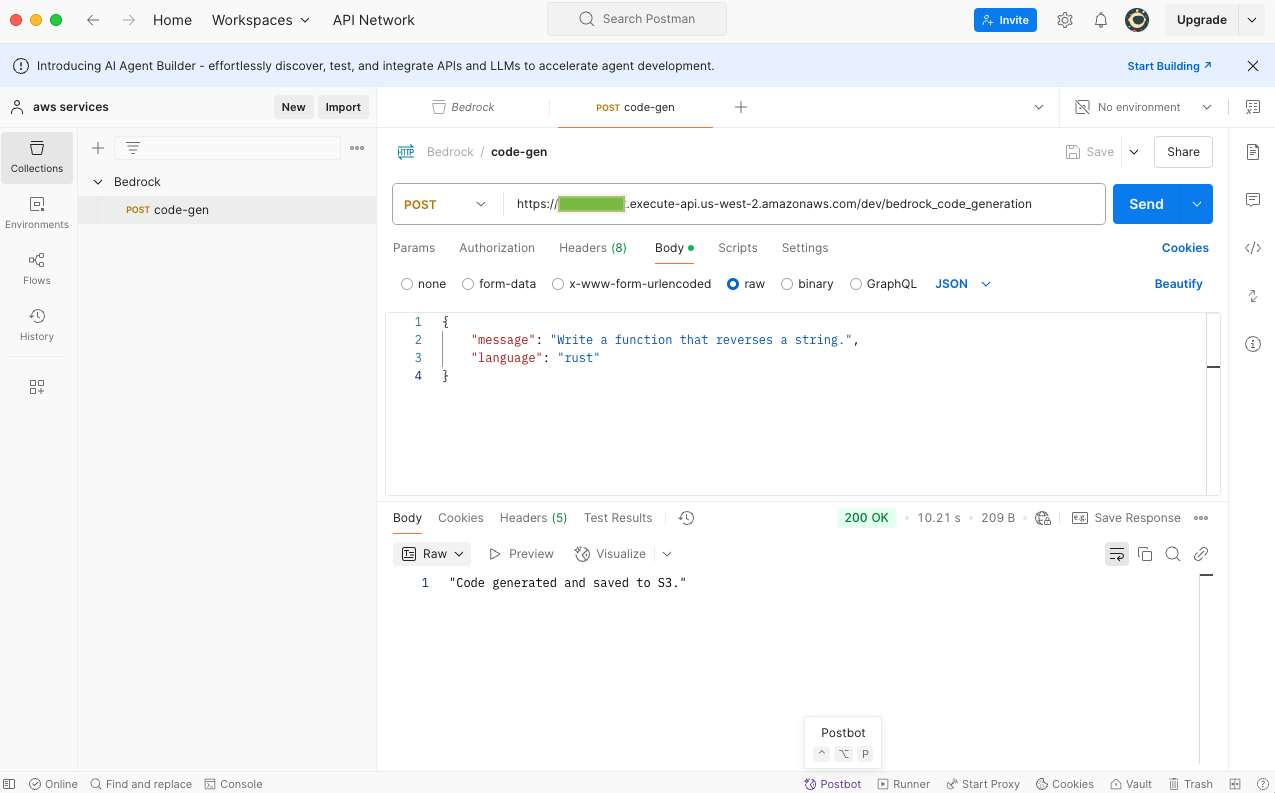
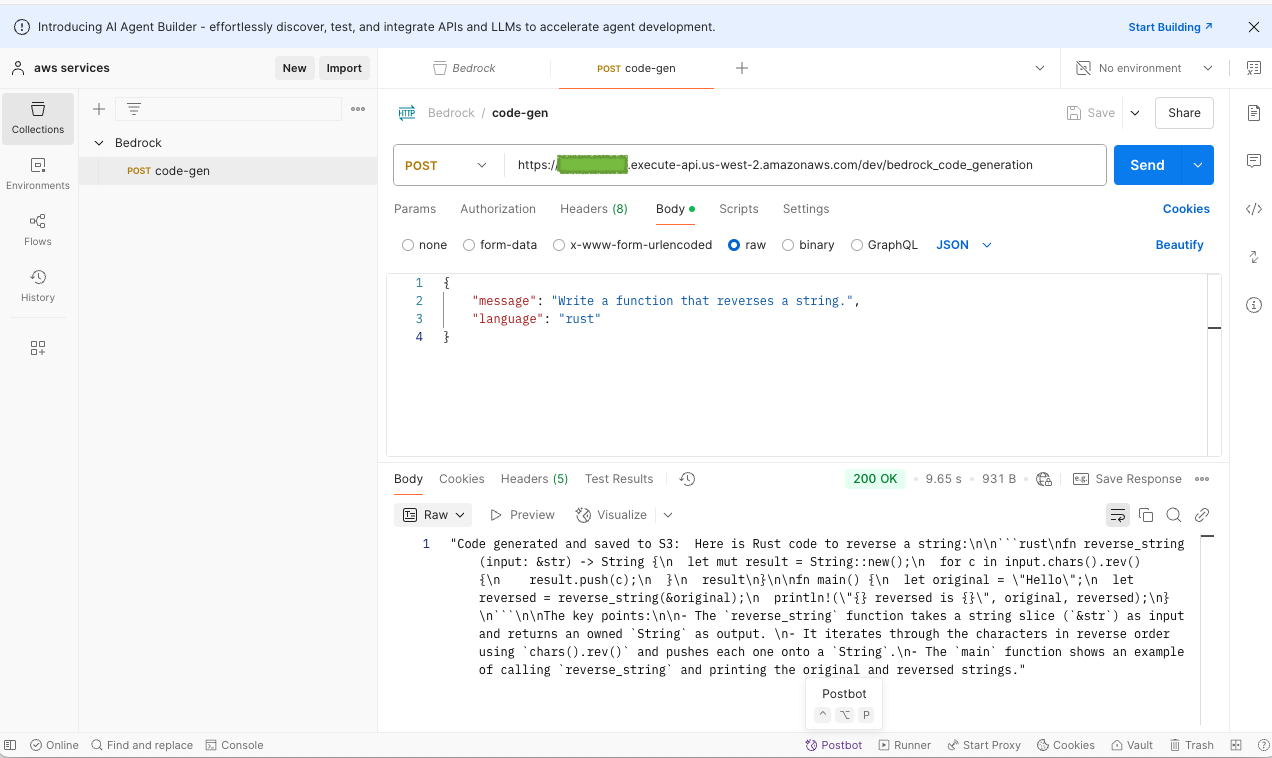
update response loads

diff --git a/lambda_function.py b/lambda_function.py
@@ -19,12 +19,13 @@ def generate_code(message: str, language: str)-> str:
 
     try:
         bedrock = boto3.client('bedrock-runtime', 
+                                # region='us-west-2', 
                                 config=botocore.config.Config(read_timeout=300, 
                                                                 retries={'max_attempts': 3}))
         
         response = bedrock.invoke_model(
             body=body,
-            modelId="anthropic.claude-v2" # get access to the model if first time.
+            modelId="anthropic.claude-v2"
         )
 
         response_body = json.loads(response.get('body').read().decode('utf-8'))
@@ -60,7 +61,7 @@ def lambda_handler(event, context):
                 s3_key = f"code-output/{current_time}.py"
             elif language=="rust":
                 s3_key = f"code-output/{current_time}.rs"
-                
+
             s3_bucket = "bedrock-bucket-tungyt"
 
             save_code_to_s3_bucket(generated_code, s3_bucket, s3_key)
@@ -70,7 +71,7 @@ def lambda_handler(event, context):
 
         return {
             'statusCode': 200,
-            'body': json.dumps('Code generated and saved to S3.')
+            'body': json.dumps(f'Code generated and saved to S3: {generated_code}')
         }
     except Exception as e:
         print(f"Error in lambda_handler: {e}")

diff --git a/README.md b/README.md
@@ -1,10 +1,10 @@
 # aws-bedrock-code-generation
 
 ### Description:
-- In this project, we will create a code generation app using AWS BedRock. 
+- In this project, we will create a code generation api using AWS BedRock, Lambda, API Gateway, Cloudwatch, S3, and finally POSTMAN for testing. 
  
 ### Architecture:
-- Request/Query -> Lambda -> BedRock -> Store S3 -> Response.
+- Request/Query -> Lambda -> BedRock foundation model -> Store S3 -> Response.
 - APIgateway to Lambda 
 
 ### Setup:
